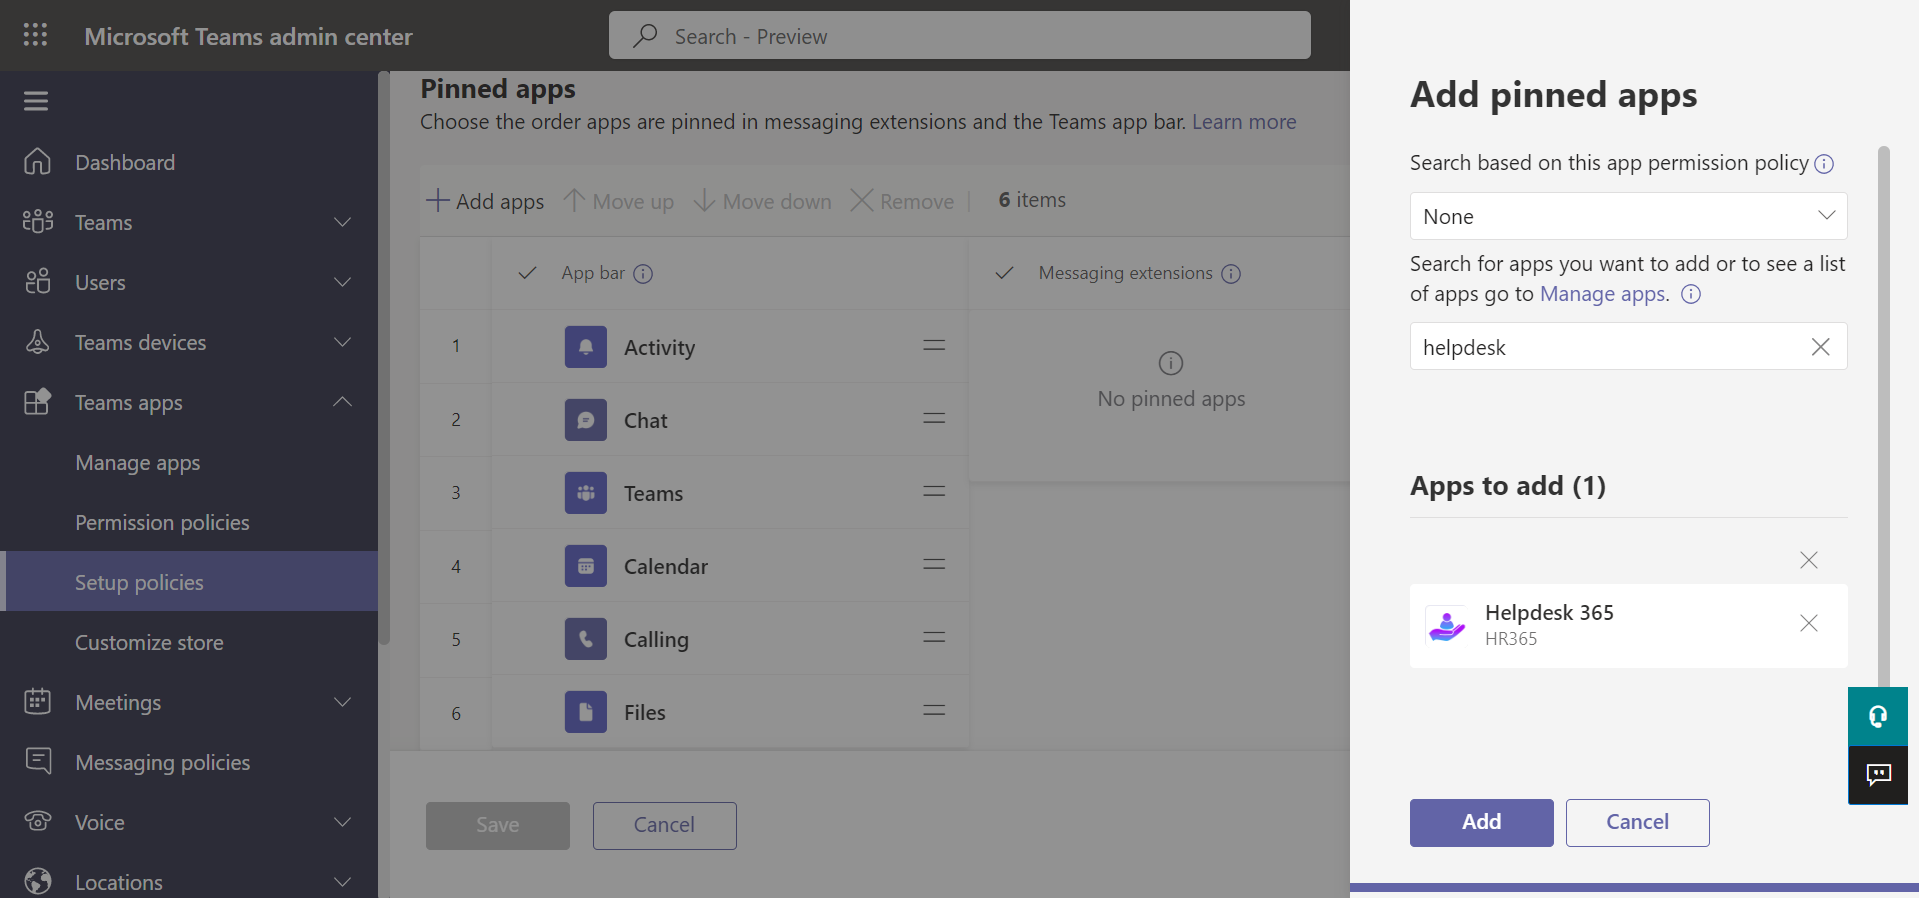
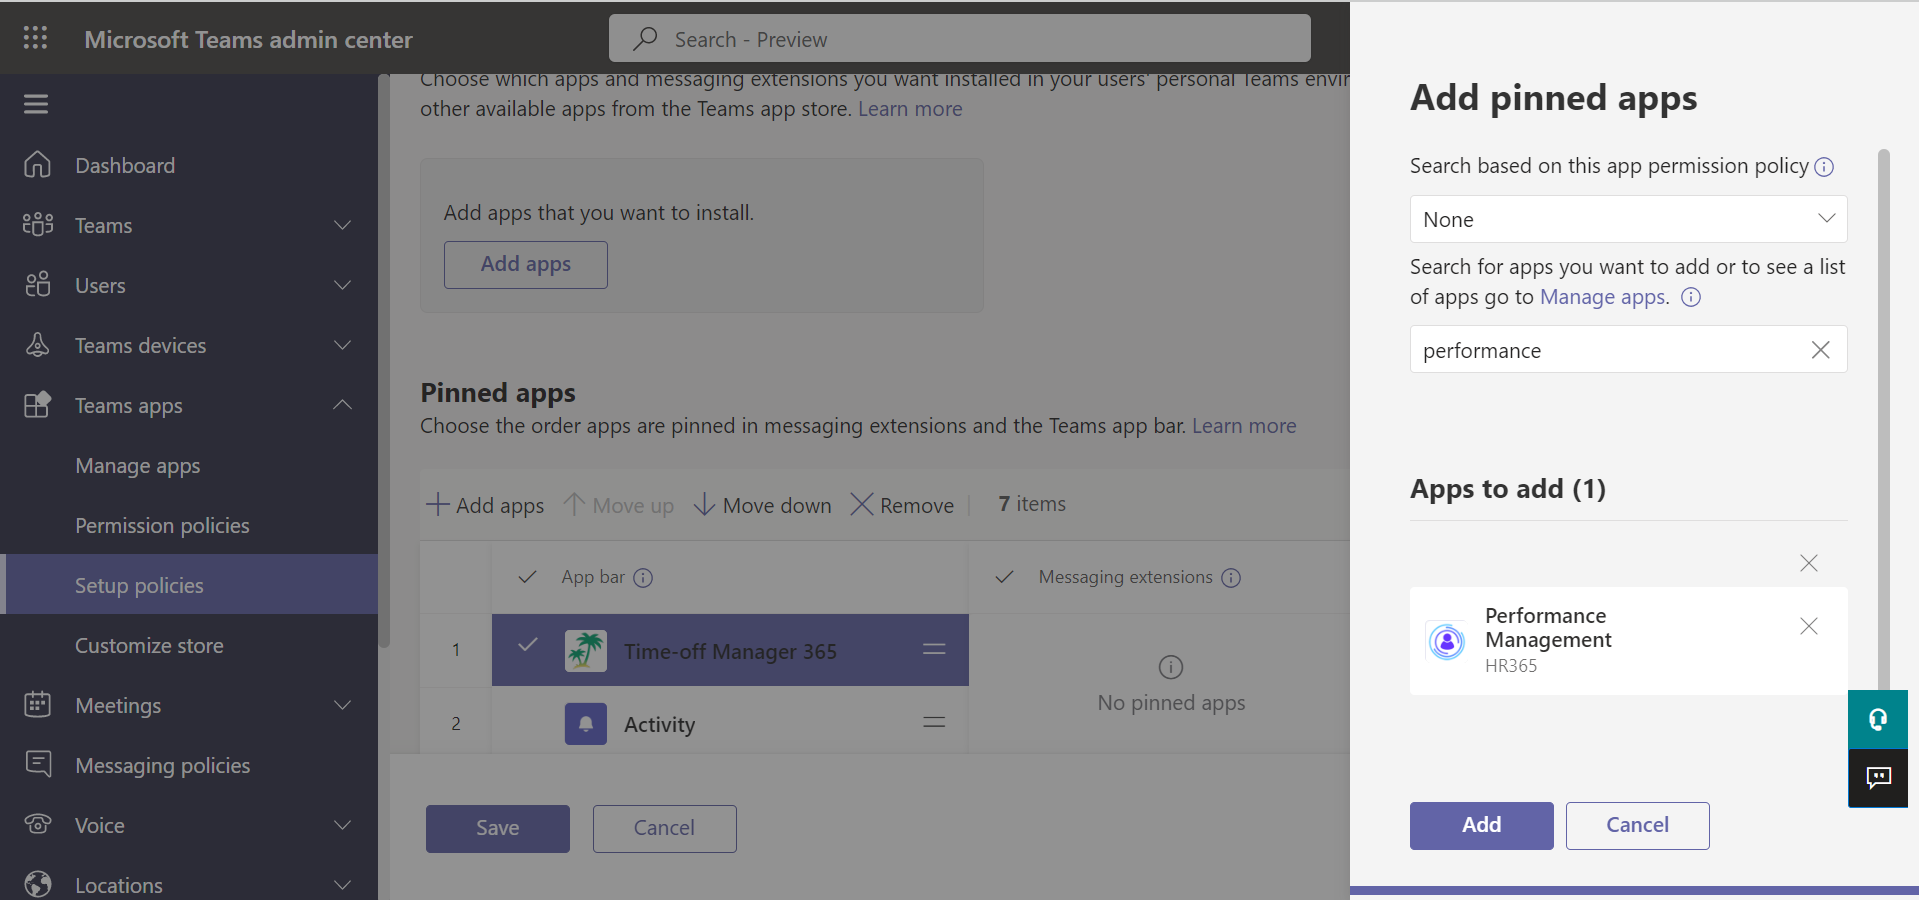
update

diff --git a/pin-time-off-manager-365-to-microsoft-teams-users/index.html b/pin-time-off-manager-365-to-microsoft-teams-users/index.html
@@ -3,7 +3,7 @@
 
 <head>
     <meta charset=utf-8>
-    <title>Pin performance management 365 to microsoft team users</title>
+    <title>Pin time off manager 365 to microsoft team users</title>
     <meta name=viewport content="width=device-width,initial-scale=1">
     <meta name=generator content="Hugo 0.92.2">
     <meta name=description content="Power Automate">
@@ -80,7 +80,7 @@
                     <div class="bg-light p-4 remove-padding">
                         <li data-nav-id=../Getting-started/installation/using-app-file title=Installation
                             class="sidelist">
-                            <h3 id="_dashboards"><a class="header-icon-link highlight" href="#">How to pin Performance Management 365 to all Microsoft Teams users ?<i class="fas fa-link"
+                            <h3 id="_dashboards"><a class="header-icon-link highlight" href="#">How to pin Time off Manager 365 to all Microsoft Teams users ?<i class="fas fa-link"
                                         style="font-size:12px; color:lightgray;"></i></a> </h3>
                             <br>
                             <p>As a Microsoft Teams admin you can pin applications that became available to all the
@@ -107,7 +107,7 @@
                                 </li>
                                 <br>
                                 <li>
-                                    Select the <b>Performance Management 365</b> and click <b>Add</b>.
+                                    Select the <b>Time off Manager 365</b> and click <b>Add</b>.
                                     <br>
                                     <br>
                                     <div><img src="add_app.png" onclick="openModal('add_app.png')" alt="add app"
@@ -115,7 +115,7 @@
                                 </li>
                                 <br>
                                 <li>
-                                    Once added to the list select the <b>Performance Management 365</b> and move it to the desired position.
+                                    Once added to the list select the <b>Time off Manager 365</b> and move it to the desired position.
                                     <br>
 
 
@@ -125,7 +125,7 @@
                                 <br>
                                 <li>
                                     Click Save and repeat this process to all the setup policies where you want to pin
-                                    the <b>Performance Management 365</b> by default. A modified setup policy can take a few hours to be
+                                    the <b>Time off Manager 365</b> by default. A modified setup policy can take a few hours to be
                                     propagated to all the users, if you don’t see it right away all you have to do is
                                     wait.
                                  <br><br> <div><img src="app_added.png" onclick="openModal('app_added.png')" alt="App added"

diff --git a/employee-vacation-tracker-time-off-manager/index.html b/employee-vacation-tracker-time-off-manager/index.html
@@ -642,7 +642,12 @@
    <p>
      <a class="more highlight" href="./classic/user/">Read More &gt;</a>
    </p>
+   <h3><a href="/pin-time-off-manager-365-to-microsoft-teams-users/" class="highlight">How to pin Time off Manager 365 to all Microsoft Teams users?</a></h3>
  
+
+   <p>
+     <a class="more highlight" href="/pin-time-off-manager-365-to-microsoft-teams-users/">Read More &gt;</a>
+   </p>
    
  </div>
  
